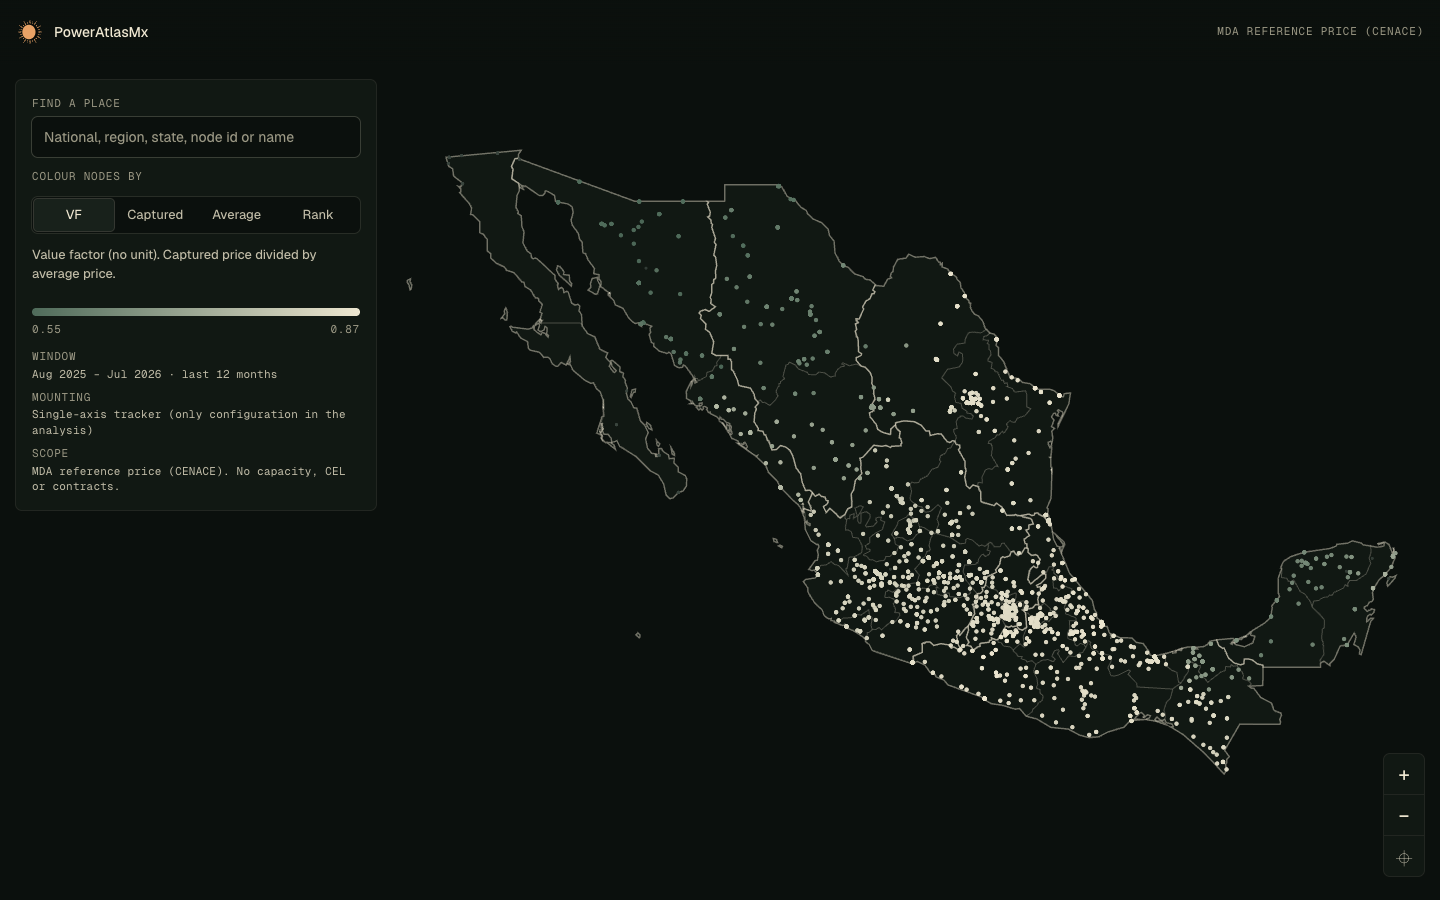
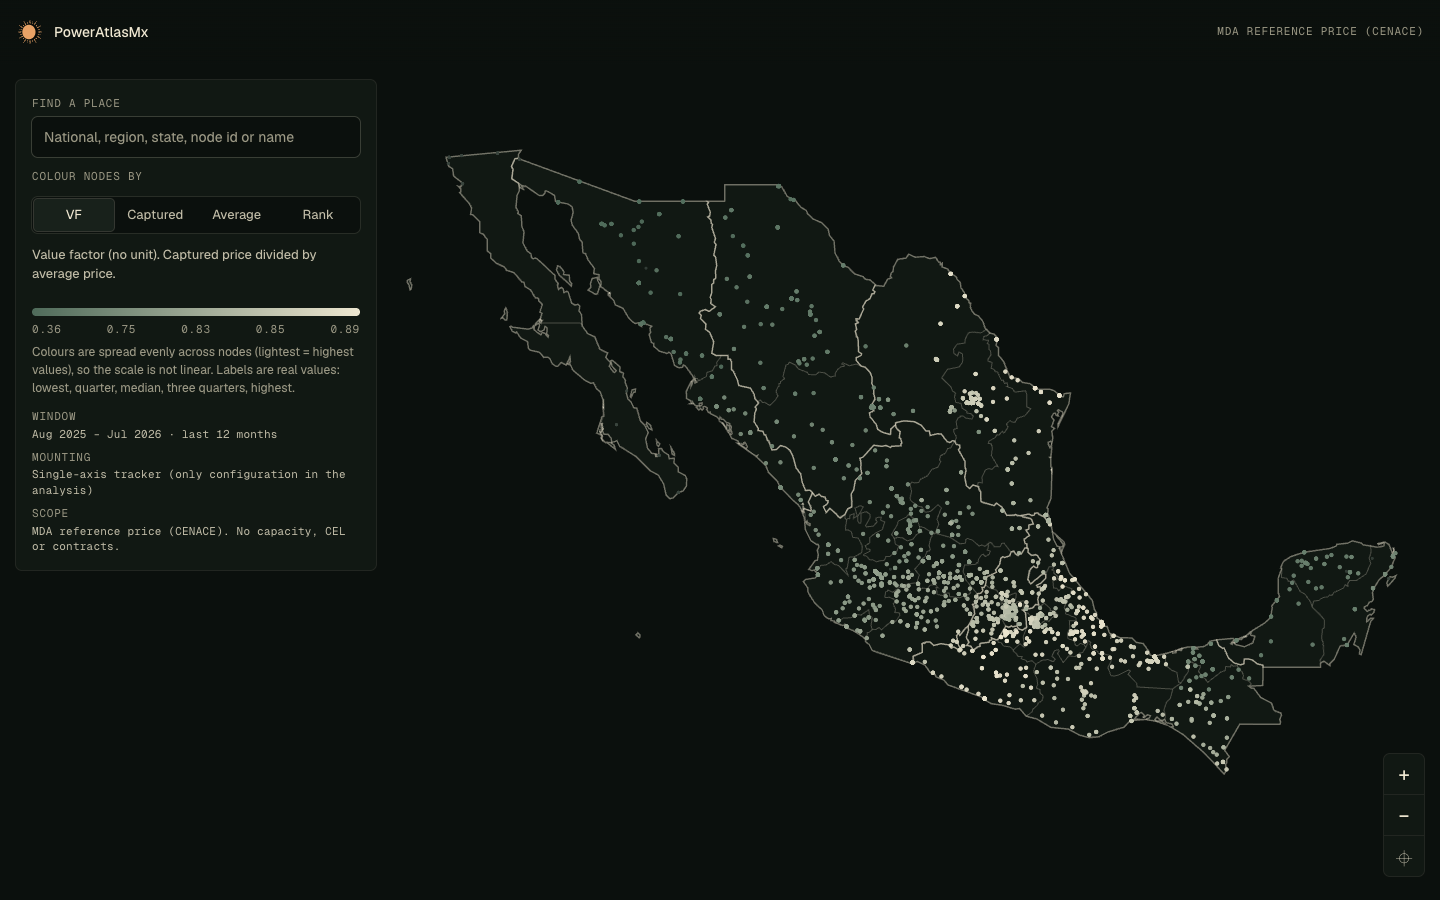
v2: rebalance map colour scale

diff --git a/web/v2/assets/js/map-page.js b/web/v2/assets/js/map-page.js
@@ -3,7 +3,7 @@ import { CONFIG } from '../../config.js';
 import { eclipseSVG } from './logo.js';
 import { loadAtlas, WINDOW } from './atlas.js';
 import { loadGeo } from './geo.js';
-import { METRICS, METRIC_ORDER, RAMP } from './metrics.js';
+import { METRICS, METRIC_ORDER, RAMP, valueAt } from './metrics.js';
 import { createStore, parseSel, serializeSel, MAX_SEL } from './store.js';
 import { createSelector, buildEntries } from './selector.js';
 import { createMapView, loadDeck, webglAvailable } from './map-view.js';
@@ -28,7 +28,7 @@ export function mountMap(root) {
       <p class="hint" id="hint"></p>
       <ul class="chips" id="chips" aria-label="Selection"></ul>
       <p class="live mono" id="live" role="status" aria-live="polite"></p>
-      <div class="legend"><div class="ramp" id="ramp"></div><div class="lg mono"><span id="lg-lo"></span><span id="lg-hi"></span></div></div>
+      <div class="legend"><div class="ramp" id="ramp"></div><div class="lg mono" id="lg"></div><p class="lgnote" id="lgnote"></p></div>
       <dl class="facts mono">
         <div><dt>Window</dt><dd>${WINDOW.label}</dd></div>
         <div><dt>Mounting</dt><dd id="cfg">…</dd></div>
@@ -78,8 +78,12 @@ export function mountMap(root) {
   function legend(dom) {
     q('#ramp').style.background = `linear-gradient(90deg, ${RAMP.dot}, ${RAMP.hi})`;
     const m = METRICS[metric];
-    if (metric === 'rank') { q('#lg-lo').textContent = 'Last in region'; q('#lg-hi').textContent = '#1 in region'; }
-    else if (dom) { const u = m.unit === 'no unit' ? '' : ` ${m.unit}`; q('#lg-lo').textContent = `${m.fmt(dom[0])}${u}`; q('#lg-hi').textContent = `${m.fmt(dom[1])}${u}`; }
+    const lg = q('#lg'), note = q('#lgnote');
+    if (metric === 'rank') { lg.innerHTML = '<span>Last in region</span><span>#1 in region</span>'; note.textContent = ''; return; }
+    if (!dom) return;
+    const u = m.unit === 'no unit' ? '' : ` ${m.unit}`;
+    lg.innerHTML = [0, 0.25, 0.5, 0.75, 1].map((f) => `<span>${m.fmt(valueAt(dom, f))}</span>`).join('');
+    note.textContent = `Colours are spread evenly across nodes (lightest = highest values), so the scale is not linear. Labels are real values${u ? ' in' + u : ''}: lowest, quarter, median, three quarters, highest.`;
   }
 
   // chips

diff --git a/web/v2/assets/js/metrics.js b/web/v2/assets/js/metrics.js
@@ -19,7 +19,24 @@ export function domainOf(nodes, key) {
   const vs = nodes.filter((n) => n.has).map((n) => METRICS[key].get(n)).filter((v) => v != null).sort((a, b) => a - b);
   if (!vs.length) return [0, 1];
   const q = (p) => vs[Math.min(vs.length - 1, Math.floor(p * vs.length))];
-  return [q(0.02), q(0.98)];
+  const dom = [q(0.02), q(0.98)];
+  dom.sorted = vs; // quantile scale: colour = share of nodes below, so the ramp is spread evenly
+  return dom;
+}
+
+/** Value at ramp fraction f (0..1) of the quantile scale; falls back to the linear domain. */
+export function valueAt(dom, f) {
+  if (!dom.sorted) return dom[0] + f * (dom[1] - dom[0]);
+  const s = dom.sorted;
+  return s[Math.min(s.length - 1, Math.max(0, Math.round(f * (s.length - 1))))];
+}
+
+function share(sorted, v) {
+  let lo = 0, hi = sorted.length;
+  while (lo < hi) { const m = (lo + hi) >> 1; if (sorted[m] < v) lo = m + 1; else hi = m; }
+  const a = lo; hi = sorted.length;
+  while (lo < hi) { const m = (lo + hi) >> 1; if (sorted[m] <= v) lo = m + 1; else hi = m; }
+  return sorted.length > 1 ? ((a + lo - 1) / 2) / (sorted.length - 1) : 1;
 }
 
 /** 0 (low) .. 1 (high). For rank, best (#1) is high. */
@@ -27,6 +44,7 @@ export function position(n, key, dom) {
   const v = METRICS[key].get(n);
   if (v == null) return null;
   if (key === 'rank') return n.rankN > 1 ? 1 - (v - 1) / (n.rankN - 1) : 1;
+  if (dom.sorted) return share(dom.sorted, v);
   return clamp01((v - dom[0]) / (dom[1] - dom[0] || 1));
 }
 

diff --git a/web/v2/assets/css/map.css b/web/v2/assets/css/map.css
@@ -33,6 +33,7 @@
 
 .legend .ramp { height: 8px; border-radius: 4px; }
 .legend .lg { display: flex; justify-content: space-between; margin-top: 6px; color: var(--ink-3); }
+.lgnote { margin: 6px 0 0; font-size: 12px; color: var(--ink-3); }
 .facts { margin: 0; display: grid; gap: 8px; }
 .facts div { display: grid; gap: 2px; }
 .facts dd { margin: 0; color: var(--ink-2); text-transform: none; letter-spacing: .02em; }
@@ -56,7 +57,7 @@
 
 @media (max-width: 760px) {
   .panel { top: auto; bottom: 12px; left: 12px; right: 12px; width: auto; max-height: 46%; padding: 12px; gap: 10px; }
-  .panel .facts, .panel .hint { display: none; }
+  .panel .facts, .panel .hint, .lgnote { display: none; }
   .zoom { bottom: auto; top: 72px; right: 12px; }
   .zoom button { width: 36px; height: 36px; }
   .nogl { inset: 72px 12px 48% 12px; }
